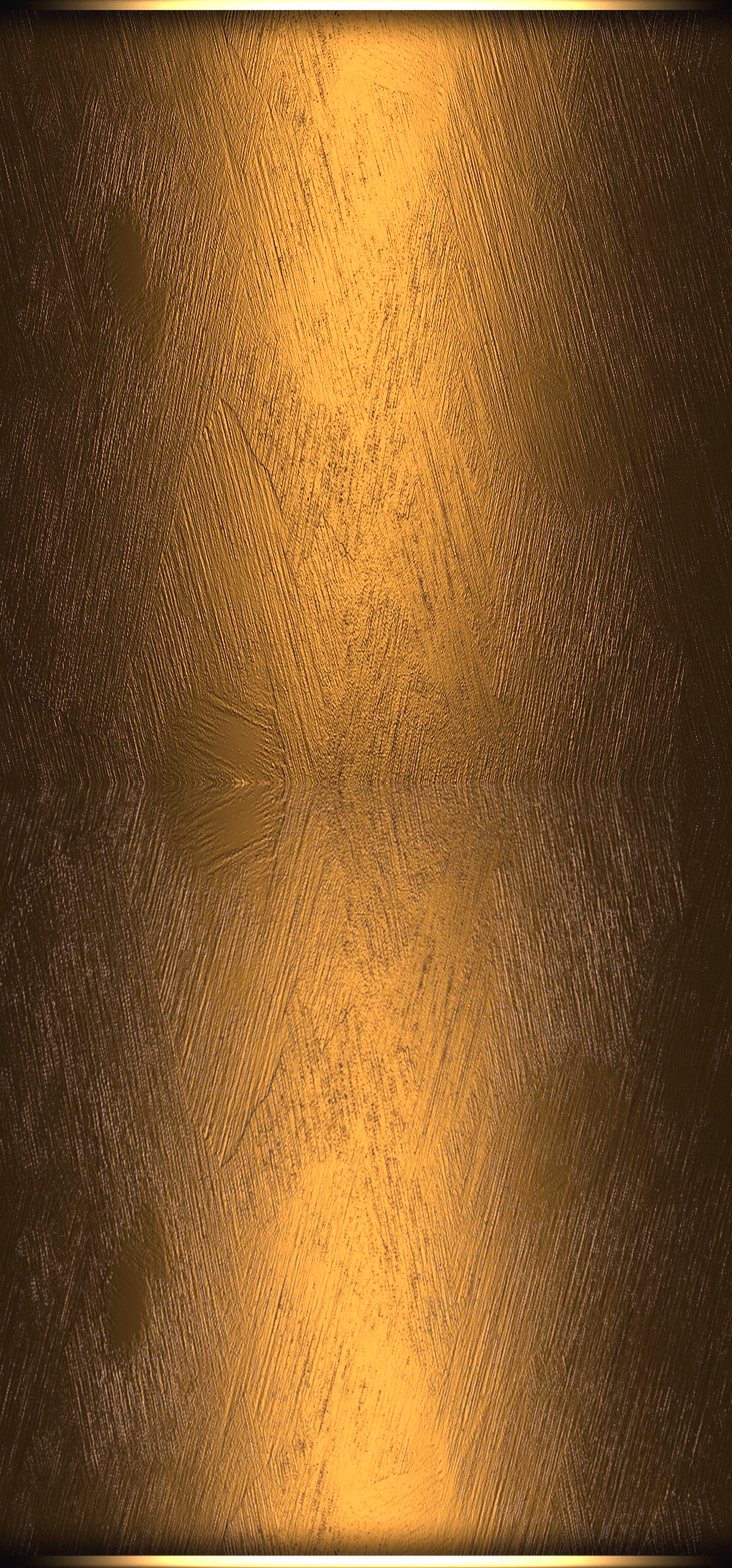
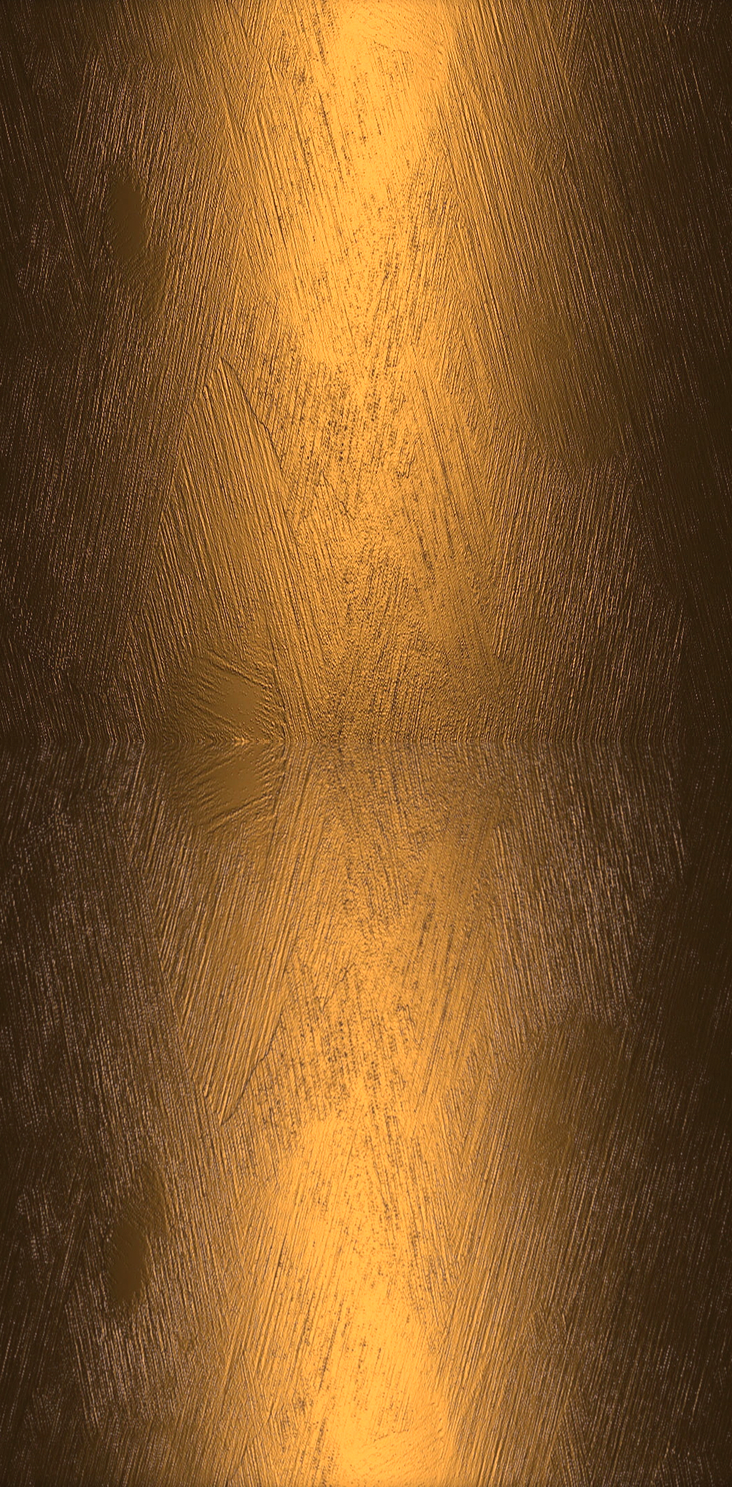
updated style.css plus croped gold3.jpg

diff --git a/css/style.css b/css/style.css
@@ -164,7 +164,7 @@ body {
   }
 
   .luizgouveia {
-    font-size: 99px;
+    font-size: 94px;
     text-shadow: 1px 2px 0px #000000;
     color: rgb(255 215 157);
     font-family: HighSpirited;
@@ -177,6 +177,7 @@ body {
     font-weight: 100;
     filter: drop-shadow(2px 5px 3px black);
     z-index: 2;
+    height: fit-content;
   }
 
   .bordao2 {
